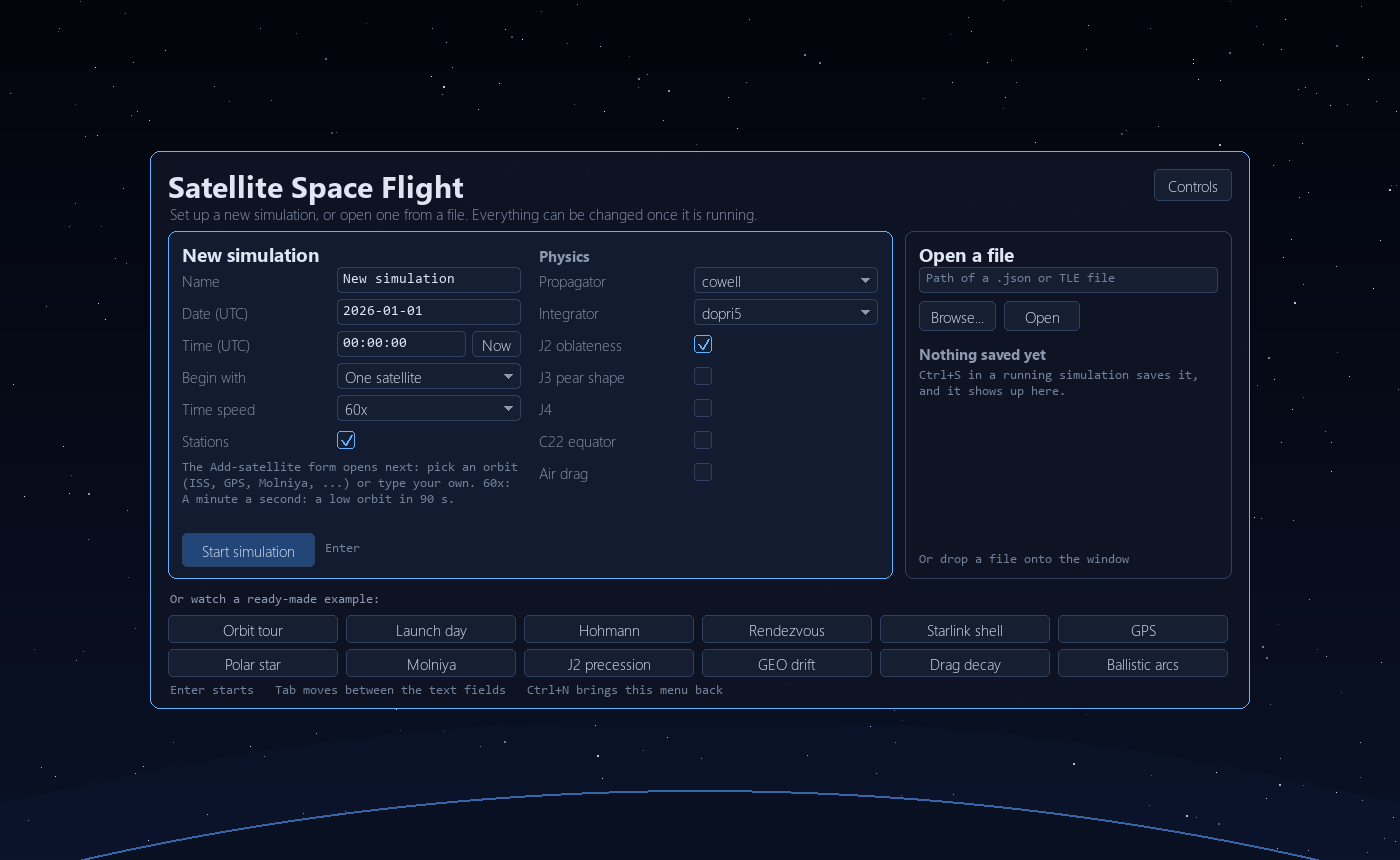
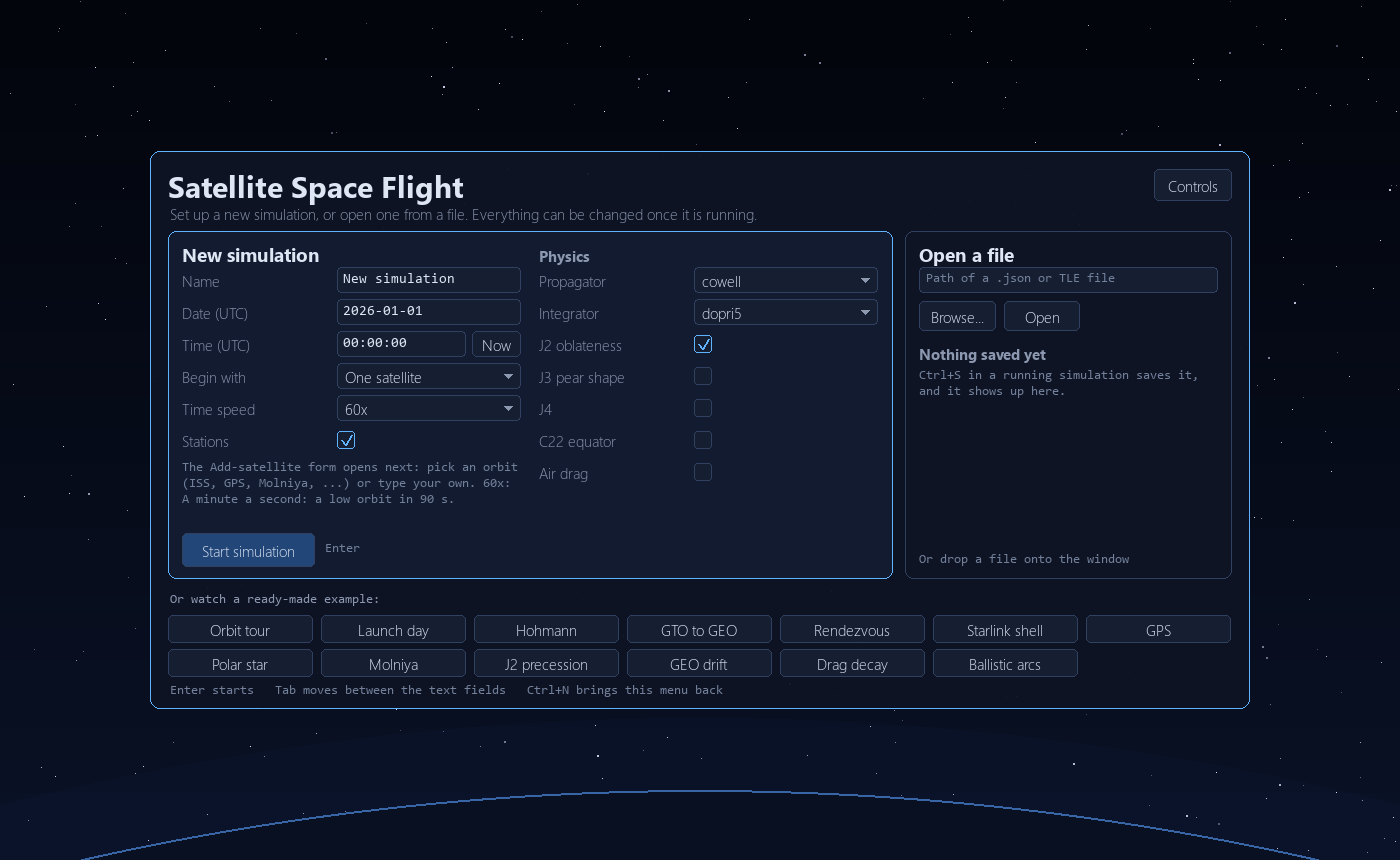
GTO to GEO scenario, orbit-change docs and pictures
Adds the gto_to_geo scenario (an apogee kick from GTO next to the
two-burn climb from a parking orbit) with a start-screen card, a
"Changing an orbit" section in the README, Change orbit / Preview notes
in PHYSICS.md and an orbit_change screenshot. The one-burn plan summary
now names which apsis it sets, and the Change orbit dialog validates
with the quick estimate and points to the plan card.

diff --git a/tools/make_scenarios.py b/tools/make_scenarios.py
@@ -20,7 +20,12 @@ sys.path.insert(0, str(ROOT))
 
 from satflight.forces import ForceModel  # noqa: E402
 from satflight.launch import LAUNCH_SITES, LaunchSpec, pad_state, vehicle_preset  # noqa: E402
-from satflight.planner import plan_hohmann, plan_rendezvous, scan_rendezvous  # noqa: E402
+from satflight.planner import (  # noqa: E402
+    plan_hohmann,
+    plan_rendezvous,
+    plan_target_orbit,
+    scan_rendezvous,
+)
 from satflight.scenario import (  # noqa: E402
     DEFAULT_STATIONS,
     ConstellationSpec,
@@ -67,6 +72,33 @@ def hohmann():
     burns, summary = plan_hohmann(sim, "Transfer", 35786.0, "now")
     sc.maneuvers = burns
     sc.description += f" Plan: {summary}."
+    return sc
+
+
+def gto_to_geo():
+    """The classic way to geostationary orbit from Cape Canaveral (28.5 deg), two ways."""
+    gto = el(perigee_alt=185.0, apogee_alt=35786.0, i=28.5, raan=40.0, argp=180.0, nu=120.0)
+    sc = Scenario(
+        name="GTO to GEO",
+        description="Two satellites go from a Cape Canaveral launch (28.5 deg) to "
+                    "geostationary orbit with the Change-orbit planner. 'Apogee kick' rides "
+                    "a 185 x 35,786 km transfer orbit and fires once at apogee, turning the "
+                    "whole 28.5 deg there, where it moves slowest. 'From parking' starts in "
+                    "a 185 km circular orbit: its first burn (the transfer injection) takes "
+                    "a little of the turn for almost nothing, the second does the rest at "
+                    "apogee.",
+        epoch=EPOCH, forces=ForceModel(j2=True), warp=600,
+        satellites=[
+            SatSpec("Apogee kick", gto, mass=4000, area=15),
+            SatSpec("From parking", el(altitude=185.0, i=28.5, raan=40.0, nu=300.0),
+                    mass=6000, area=15)])
+    sim = Simulation(sc)
+    kick, kick_summary = plan_target_orbit(sim, "Apogee kick", 35786.0, 35786.0, 0.0,
+                                           "apoapsis")
+    park, park_summary = plan_target_orbit(sim, "From parking", 35786.0, 35786.0, 0.0,
+                                           "ascending_node")
+    sc.maneuvers = kick + park
+    sc.description += f" Apogee kick: {kick_summary}. From parking: {park_summary}."
     return sc
 
 
@@ -251,7 +283,8 @@ def geo_drift():
                     for lon in lons])
 
 
-ALL = {"default": default, "hohmann_to_geo": hohmann, "rendezvous": rendezvous,
+ALL = {"default": default, "hohmann_to_geo": hohmann, "gto_to_geo": gto_to_geo,
+       "rendezvous": rendezvous,
        "starlink_shell": starlink, "gps_constellation": gps, "polar_star": iridium,
        "drag_decay": drag, "j2_precession": j2, "molniya_tundra": heo,
        "launches_and_arcs": launches, "launch_day": launch_day, "geo_drift": geo_drift}

diff --git a/tools/make_screenshots.py b/tools/make_screenshots.py
@@ -13,6 +13,7 @@ from __future__ import annotations
 import os
 import sys
 import tempfile
+import time
 from pathlib import Path
 
 os.environ["SDL_VIDEODRIVER"] = "dummy"          # before pygame is imported
@@ -49,6 +50,29 @@ def hohmann():
     """Half-way up a Hohmann transfer to GEO."""
     app = _app("hohmann_to_geo", 3 * 3600, "Transfer")
     app.camera.distance = 110000.0      # the whole transfer ellipse
+    return app
+
+
+def orbit_change():
+    """Planning the parking-orbit-to-GEO change, with its preview and card (the
+    plan as it is being made: the scenario's own burns for it are left out)."""
+    app = _app("gto_to_geo", 0, "From parking")
+    app.sim.maneuvers = [m for m in app.sim.maneuvers if m.sat != "From parking"]
+    app.paused = True
+    app.camera.distance = 160000.0
+    app.open("maneuver")
+    dlg = app.dialogs[-1]
+    for key, value in (("kind", "Change orbit to..."), ("timing", "Ascending node"),
+                       ("tgt_perigee", 35786), ("tgt_apogee", 35786), ("tgt_inc", 0)):
+        dlg.set(key, value)
+    dlg.changed("tgt_inc")
+    start = time.monotonic()
+    while not (app.plan_preview.plan() is not None and app.plan_preview.plan().aimed):
+        if time.monotonic() - start > 120:
+            raise RuntimeError("the aimed preview never came")
+        app.plan_preview._rested_at = 0.0         # no need to wait out the debounce
+        app.update(0.0)
+        time.sleep(0.05)
     return app
 
 
@@ -119,7 +143,8 @@ def start_screen():
     return app
 
 
-SCENES = {f.__name__: f for f in (overview, hohmann, starlink, molniya_ecef_map, j2_plot,
+SCENES = {f.__name__: f for f in (overview, hohmann, orbit_change, starlink, molniya_ecef_map,
+                                  j2_plot,
                                   follow_iss, orbit_inspector, launch_dialog, launch_ascent,
                                   start_screen)}
 

diff --git a/satflight/ui/dialogs.py b/satflight/ui/dialogs.py
@@ -467,7 +467,7 @@ def maneuver_dialog(app):
     def on_change(dlg, key):
         try:
             v = dlg.values()
-            burns, summary = plan(v, aim=False)            # quick, while typing
+            plan(v, aim=False)                 # quick, while typing; raises if impossible
         except ValueError as exc:
             dlg.info["preview"] = f"({exc})"
             preview.clear(str(exc))
@@ -487,7 +487,7 @@ def maneuver_dialog(app):
         else:
             n = len(flown.burns)
             dlg.info["preview"] = (f"{n} burn{'s' if n > 1 else ''}, ~{flown.total_dv * 1000:,.0f}"
-                                   f" m/s: the card in the view explains - {summary}")
+                                   " m/s - the card in the view explains")
 
     def on_ok(v):
         flown, i = preview.plan(), sim.require(v["sat"])

diff --git a/satflight/planner.py b/satflight/planner.py
@@ -382,8 +382,9 @@ def plan_target_orbit(sim, sat: str, perigee_alt: float, apogee_alt: float, inc:
         burns = [Maneuver(sat, "impulse", timing="absolute", t=t_b, dv=dv_vnb, frame="VNB",
                           label=f"Orbit change burn ({dv * 1000:.1f} m/s)")]
         miss = abs(near - r1)
+        which = "height" if rp == ra else "perigee" if near == rp else "apogee"
         summary = (f"one burn of {dv * 1000:.1f} m/s does it all (it fires {miss:,.1f} km "
-                   f"from the target {'perigee' if near == rp else 'apogee'}), "
+                   f"from the target {which}), "
                    f"inclination {i0:.2f} -> {inc:.2f} deg" + _reach_note(h, inc))
         return burns, summary if aim else ESTIMATE + summary
     options = []

diff --git a/satflight/ui/welcome.py b/satflight/ui/welcome.py
@@ -53,6 +53,8 @@ CARDS = [
     ("launch_day", "Launch day", "Six rockets lift off from four continents; stages fall away."),
     ("hohmann_to_geo", "Hohmann",
      "Two engine burns raise a satellite from low orbit to GEO."),
+    ("gto_to_geo", "GTO to GEO",
+     "To geostationary from Florida: the 28.5 deg tilt is undone where it costs least."),
     ("rendezvous", "Rendezvous",
      "A chaser catches up with a space station and matches its speed."),
     ("starlink_shell", "Starlink shell",

diff --git a/README.md b/README.md
@@ -74,13 +74,15 @@ edition of pygame (same `import pygame` API; it also ships wheels for Python
 
 ![Overview](docs/images/overview.png)
 
-| Hohmann transfer to GEO | 1,584-satellite Walker shell |
+| Changing an orbit: parking orbit to GEO, previewed and explained | Hohmann transfer to GEO |
 |---|---|
-| ![Hohmann](docs/images/hohmann.png) | ![Starlink-like shell](docs/images/starlink.png) |
-| **Molniya / Tundra in the Earth-fixed frame** | **J2 precession study with telemetry plot** |
-| ![Molniya](docs/images/molniya_ecef_map.png) | ![J2](docs/images/j2_plot.png) |
-| **Following the ISS over Canada** | **Orbit inspector: a Molniya satellite near apogee** |
-| ![Follow camera](docs/images/follow_iss.png) | ![Orbit inspector](docs/images/orbit_inspector.png) |
+| ![Orbit change](docs/images/orbit_change.png) | ![Hohmann](docs/images/hohmann.png) |
+| **1,584-satellite Walker shell** | **Molniya / Tundra in the Earth-fixed frame** |
+| ![Starlink-like shell](docs/images/starlink.png) | ![Molniya](docs/images/molniya_ecef_map.png) |
+| **J2 precession study with telemetry plot** | **Following the ISS over Canada** |
+| ![J2](docs/images/j2_plot.png) | ![Follow camera](docs/images/follow_iss.png) |
+| **Orbit inspector: a Molniya satellite near apogee** | |
+| ![Orbit inspector](docs/images/orbit_inspector.png) | |
 
 ## Launching from anywhere on Earth
 
@@ -146,6 +148,17 @@ vectors, **launch from the surface** (lat/lon/alt, ground speed, azimuth,
 flight-path angle, including Earth-rotation velocity), geostationary slots,
 TLEs, copies spread along an orbit, and **Walker delta/star constellations**.
 
+**Changing an orbit** - "Change orbit to..." takes the orbit you want
+(perigee, apogee, inclination) and plans the two burns that reach it, splitting
+the plane change between them the cheapest way: from a 185 km, 28.5 deg parking
+orbit to GEO it puts 2.2 deg on the transfer-injection burn and the rest at
+apogee, 4.27 km/s against 4.30 with the whole turn at apogee. While you plan,
+the 3-D view draws the transfer arc, each burn and the orbit it ends in, and a
+card beside it explains every burn (when, where, delta-v split into speed and
+turn), the propellant, and the orbit before and after. A **burn node**
+(`Shift+B`) shapes a burn by hand: drag its prograde, normal and radial handles
+on the orbit and watch the new orbit follow.
+
 **Mission planning** - Hohmann and bi-elliptic transfers, circularization,
 plane changes at the nodes, **Lambert rendezvous** (with an automatic search
 for the cheapest time of flight whose arc stays above the atmosphere), and
@@ -203,7 +216,7 @@ what it does, with its keyboard shortcut.
 | input | action |
 |---|---|
 | left-drag / wheel | orbit / zoom camera (the wheel scrolls the panel or event log under the mouse); click a satellite to select and inspect it, double-click to follow it |
-| right-click a satellite | its menu: follow, edit, maneuver, plot, delete (in the list or the 3-D view) |
+| right-click a satellite | its menu: follow, edit, maneuver, burn node, plot, delete (in the list or the 3-D view) |
 | click an event in the log | select the satellite it names (twice: follow it) |
 | `Ctrl+F` | find a satellite: the list shows only names containing what you type; `Up` / `Down` step through them, `Esc` clears |
 | arrow keys, `+` `-` | rotate / zoom camera |
@@ -215,6 +228,7 @@ what it does, with its keyboard shortcut.
 | `PgUp` `PgDn` `Home` `End` | scroll the right panel (or drag its scrollbar) |
 | `M` `G` `I` | ground-track map, plot, hide panels |
 | `A` `W` `B` `N` `P` | add satellite, Walker constellation, maneuver, ground station, physics |
+| `Shift+B` | burn node on the selected satellite: drag its handles in the view, `Enter` schedules it |
 | `U` | launch a rocket from anywhere on Earth |
 | `Ctrl+N`, `Ctrl+O`, `Ctrl+S`, `Ctrl+R`, `Ctrl+Q` | start menu, scenarios, save snapshot, reset, quit |
 | `Ctrl+E`, `Del`, `F12`, `H` / `F1` | edit / delete satellite, screenshot, help (`Esc` closes it) |
@@ -227,7 +241,10 @@ larger, so they keep the size you chose but stay sharp instead of being
 stretched by Windows. `--ui-scale 1.5` picks another size.
 
 Every dialog shows a live preview (resulting orbit, transfer delta-v, burn
-duration) before you commit. A click on a choice opens its list of options
+duration) before you commit. Plan maneuver and the burn node sit at the right
+edge instead of over the view: the planned path is drawn in 3-D (the two-body
+estimate at once, then the plan aimed with the run's forces), and dragging or
+scrolling beside them still turns and zooms the view. A click on a choice opens its list of options
 (arrow keys and `Enter` pick from it too; the wheel steps through them without
 opening it). Text fields edit where the caret is: click to place it, `Home` /
 `End` and the arrows move it; tabbing into a field or `Ctrl+A` selects its
@@ -248,6 +265,7 @@ the event log as ignored. Bundled examples, regenerated by
 |---|---|
 | `default.json` | LEO, SSO, MEO, GEO, Molniya and GTO together |
 | `hohmann_to_geo.json` | two-burn LEO to GEO transfer |
+| `gto_to_geo.json` | Cape Canaveral to GEO two ways: one apogee burn from GTO, or two burns from a parking orbit with the plane change split |
 | `rendezvous.json` | Lambert intercept and velocity match |
 | `starlink_shell.json` | 1584/72/17 Walker delta shell |
 | `gps_constellation.json` | 24/6/1 MEO constellation |
@@ -394,7 +412,8 @@ satflight/            physics engine (numpy only)
   integrators.py      DOPRI5, RK4, Wisdom-Holman, leapfrog
   maneuvers.py        transfers, Lambert, maneuver objects
   launch.py           launch vehicles, ascent dynamics and guidance, launch windows
-  planner.py          turns goals into scheduled burns
+  planner.py          turns goals into scheduled burns (transfers, target orbit, rendezvous)
+  preview.py          flies planned burns ahead (two-body or the run's forces) for the preview
   analysis.py         J2 rates, footprints, classification, J2-mean propagator
   orbitinfo.py        derived properties for the orbit inspector (apsides, passes, eclipses, LTAN)
   lifetime.py         orbital lifetime under drag, orbit-averaged
@@ -416,11 +435,13 @@ satflight/            physics engine (numpy only)
     orbitpanel.py     Orbit tab: diagrams, timeline, gauges and property sheet
     launchui.py       Launch and Vehicle dialogs, ascent view
     dialogs.py        add satellite, Walker, maneuver, station, physics, scenarios
+    planview.py       the planned maneuver drawn in the view, and its explaining card
+    burnnode.py       burn node: shape a burn by dragging handles on the orbit
     groundtrack.py    2-D ground-track map
     plots.py          telemetry time-history plot
     widgets.py        buttons, text fields, choices and the form dialog
     tips.py           hover tips and mouse cursors: parts register what they are as they draw
-    background.py     slow work (launch preview planning) off the UI thread, newest request only
+    background.py     slow work (launch and maneuver previews) off the UI thread, newest request only
     glossary.py       plain-language explanations of every readout
     theme.py          colors, fonts and drawing helpers
 scenarios/            example scenarios

diff --git a/docs/PHYSICS.md b/docs/PHYSICS.md
@@ -250,6 +250,31 @@ plain two-body motion while the run has more.
   coasting): a later burn or rendezvous arrival is refused with a note to
   plan it nearer the time. Single burns (impulse, finite, circularize,
   plane change) have no such limit; they are worked out when they fire.
+- **Change orbit to** a perigee, apogee and inclination: burn 1 (at the chosen
+  timing) leaves the satellite moving level, so the burn point becomes an
+  apsis, in a plane turned by a share `f` of the inclination change, at the
+  speed whose far apsis lands on a target apsis (aimed with the run's forces as
+  for Hohmann); burn 2 there sends the opposite apsis to the other target and
+  turns the rest. The plane through the burn point with inclination `i` has
+  the normal `h` with `h . r = 0` and `h_z = cos i` (the one nearer the present
+  normal); it exists only where `|latitude| <= i`, which is why plane changes
+  belong at the nodes. `f` minimises the two-body total (a 41-point scan, then
+  golden section): a turn costs `2 v sin(di/2)` alone but little on top of a
+  large speed change, so from a 185 km, 28.5 deg parking orbit to GEO 2.16 deg
+  rides on the 2.48 km/s injection and 26.3 deg goes to apogee (1.60 km/s
+  there): 4.272 km/s against 4.296 with the whole turn at apogee. From GTO
+  itself the perigee burn changes no speed, so the whole turn goes to the one
+  apogee burn (1.837 km/s). A burn already within 25 km of a target apsis does
+  everything alone. Under J2 the apsides drift off the nodes (0.06 deg of
+  latitude after a 5 h coast to GEO), so `i = 0` cannot pass through the burn
+  point: the nearest plane within 0.5 deg is taken and the summary says what
+  inclination is reached; further off it is refused with the reason.
+- **Preview** (`satflight/preview.py`): the planned burns are flown ahead,
+  two-body while the form is edited and with the run's forces on a snapshot of
+  the run in the background, giving the transfer arcs, each burn's place,
+  delta-v, speed change and plane turn, the propellant (rocket equation, a
+  finite burn drawn as one kick) and the final orbit. The aimed preview ends
+  within a metre of what the run then flies.
 - **Circularize** gives the satellite the velocity, in its present plane, of a
   circular orbit for the run's forces: no once-per-revolution term in the
   radius over the coming revolution (found by Newton on the radial and
